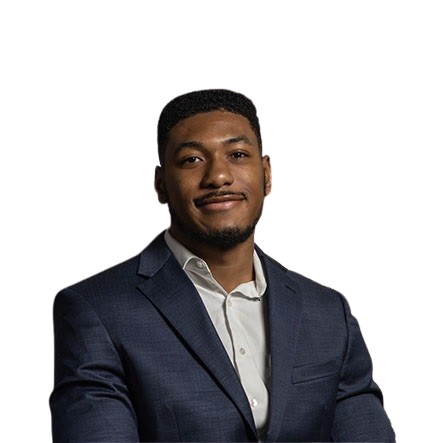
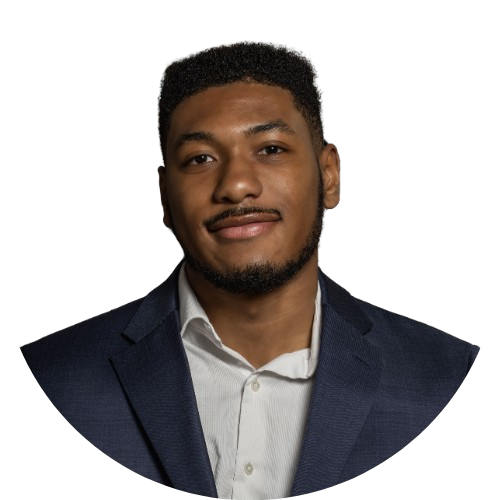
Added styling changes for the main website

diff --git a/app/page.tsx b/app/page.tsx
@@ -1,22 +1,23 @@
 'use client';
 import Photo from "@/components/Photo";
 import Social from "@/components/Social";
+import Stats from "@/components/Stats";
 import { Button } from "@/components/ui/button";
 import { FiArrowRight } from 'react-icons/fi';
 
 export default function Home() {
   return (
-    <section className="h-full">
-      <div className="container mx-auto h-full flex">
-        <div className="flex flex-col xl:flex-row items-center justify-between xl:pt-8 xl:pb-24">
-          <div className='text-center xl:text-left order-2 xl:order-none'>
+    <section className="h-full mt-10">
+      <div className="container mx-auto h-full flex flex-col lg:flex-row lg:justify-between sm:justify-end xl:pb-8">
+        <div className="flex flex-col xl:flex-row items-center  xl:pt-8 xl:pb-24 order-2 lg:order-none pr-10">
+          <div className='text-left sm:text-center xl:text-left order-2 xl:order-none'>
             <span>Founding Software Engineer</span>
             <h1 className='h1'>Hello I'm <br />
               <span className='text-accent'>Bakari Morris</span>
             </h1>
             <p className='max-w-[500px] mb-9 text-white/80'>I excel at creating an engaging user experience.  </p>
 
-            <div className="mb-8 xl:mb-0 mt-3 flex gap-6 items-center justify-start">
+            <div className="mb-8 xl:mb-0 mt-3 flex gap-6 items-center lg:justify-start md:justify-center">
               <Button
                 variant='outline'
                 size='lg'
@@ -32,10 +33,12 @@ export default function Home() {
             </div>
           </div>
         </div>
-        <div className="order--1 xl:order-none mb-8 xl:mb-0">
+        <div className="flex order-1 xl:order-none mb-8 xl:mb-0 lg:order-none justify-center">
                 <Photo />
               </div>
       </div>
+
+      <Stats/>
     </section>
   );
 }

diff --git a/components/Stats.tsx b/components/Stats.tsx
@@ -1,0 +1,47 @@
+'use client';
+import ContUp from 'react-countup';
+
+
+interface Istats {
+  val: number,
+  description: string
+}
+
+const stats: Array<Istats> = [
+  {
+    val: 7,
+    description: 'Years of experience'
+  },
+  {
+    val: 10,
+    description: 'Projects completed'
+  },
+  {
+    val: 6,
+    description: 'Technologies mastered'
+  }
+]
+
+const Stats = () => {
+  return (
+    <section className='pt-4 pb-12  xl:pb-0'>
+      <div className="container mx-auto">
+        <div className="flex flex-wrap gap-6 max-w-[80vw] xl:max-w-none">
+          {stats.map((item, index) => (
+            <div className="flex-1 flex gap4 items-center justify-center xl:justify-start" key={index}>
+              <ContUp
+                end={item.val}
+                duration={5}
+                delay={2}
+                className='text-4xl xl:text-6xl font-extrabold'
+              />
+              <p className={`${item.description.length < 15 ? 'max-w-[100px]' : 'max-w-[150px] pl-3'} leading-snug text-white/80`}>{item.description}</p>
+            </div>
+          ))}
+        </div>
+      </div>
+    </section>
+  )
+}
+
+export default Stats;

diff --git a/components/Photo.tsx b/components/Photo.tsx
@@ -4,7 +4,7 @@ import Image from 'next/image';
 
 const Photo = () => {
   return (
-    <div className="w-full h-full relative">
+    <div className="relative">
       <motion.div 
         initial={{opacity: 0}}
         animate={{opacity: 1, transition: {delay: 2, duration: 0.4, ease: 'easeIn'},
@@ -14,10 +14,10 @@ const Photo = () => {
         animate={{opacity: 1, transition: {delay: 2.4, duration: 0.4, ease: 'easeInOut'},
       }} 
       className='w-[298px] h-[298px]] xl:w-[498px] xl:h-[498px] absolute'>
-          <img src='/assets/profile.png' alt='profile picture man in suit' className='object-contain relative'/>
+          <img src='/assets/profile.png' alt='profile picture man in suit' className='object-contain relative z-[-1]'/>
         </motion.div>
 
-        <motion.svg className='w-[300px] xl:w-[506px] h-[300px] xl:h-[506px]' fill='transparent'
+        <motion.svg className='w-[300px] xl:w-[506px] h-[300px] xl:h-[506px] z-10' fill='transparent'
         viewBox='0 0 506 506'
         xmlns='http://www.w3.org/2000/svg'>
           <motion.circle 
